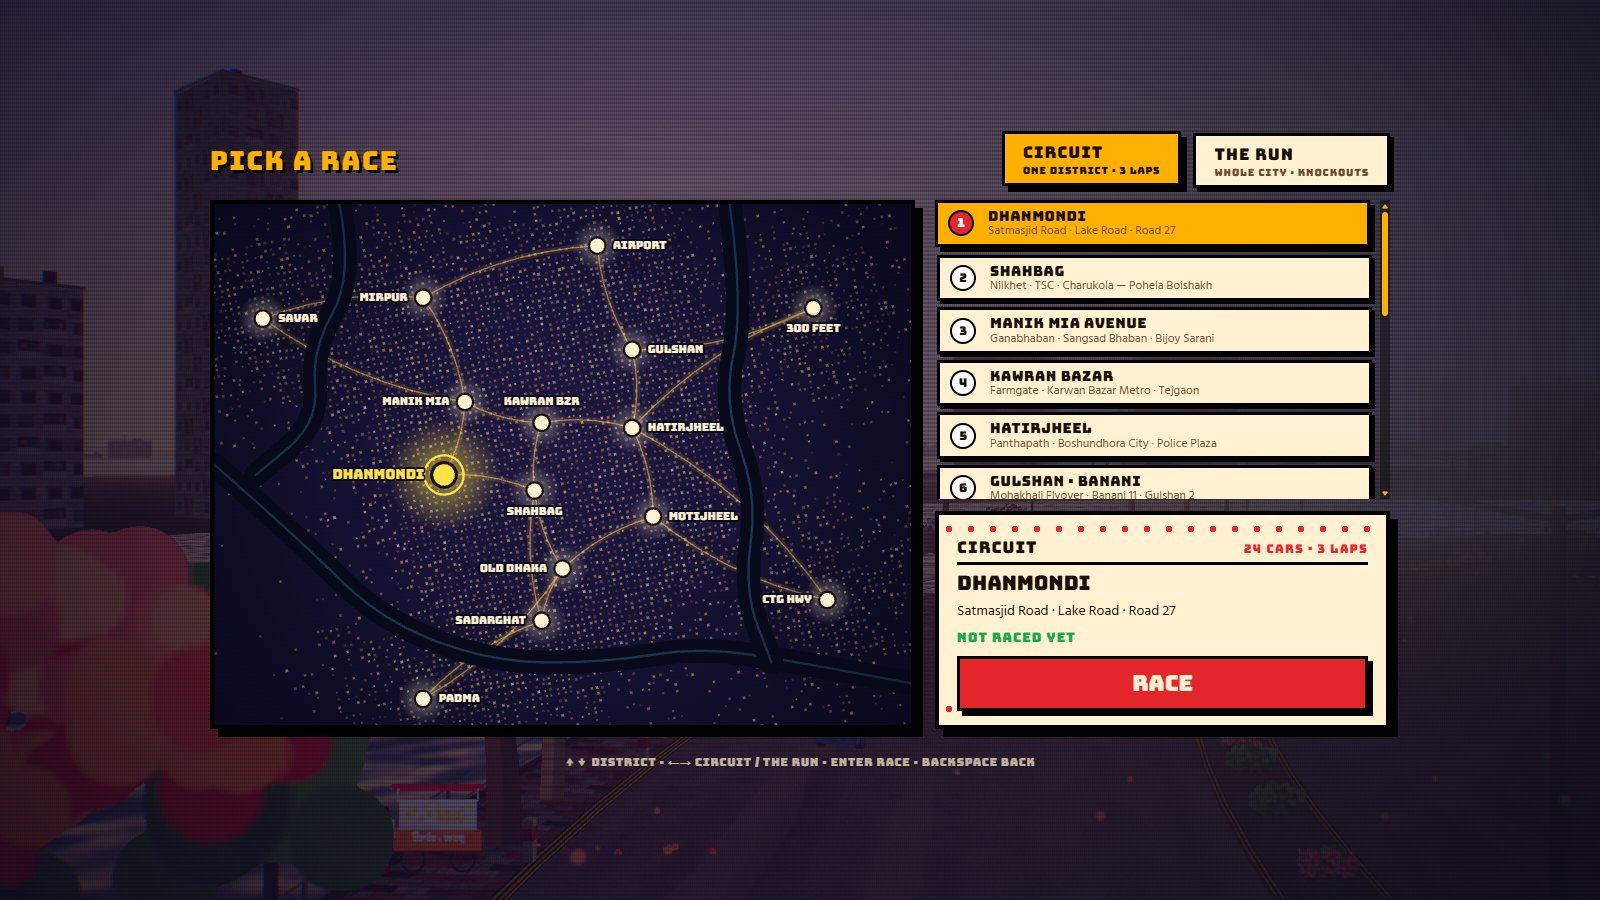
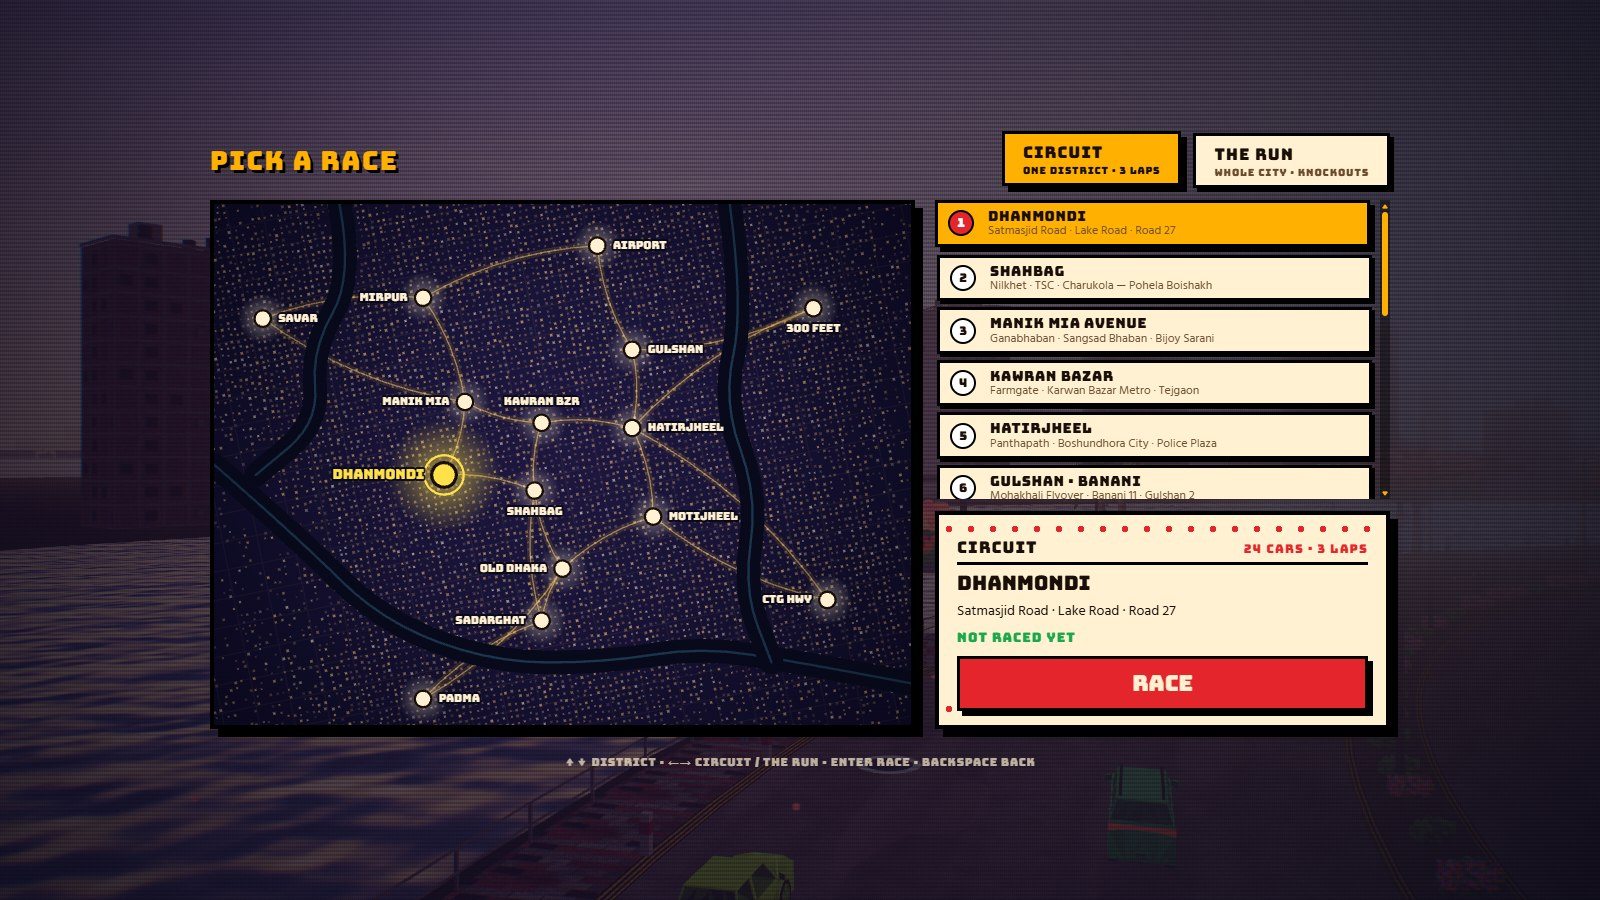
Fill the blank areas of the race-picker map; README back to a compact screenshot grid

diff --git a/src/ui/dhakamap.js b/src/ui/dhakamap.js
@@ -89,7 +89,7 @@ export function drawDhaka(cv, opts = {}) {
   {
     const r = rng(20240611);
     const step = small ? 4.5 : 7 * k;
-    const sig = W * 0.095;
+    const sig = W * 0.13;
     const cosA = Math.cos(-0.2), sinA = Math.sin(-0.2);
     c.save();
     c.translate(W / 2, H / 2);
@@ -101,7 +101,8 @@ export function drawDhaka(cv, opts = {}) {
         // where this lattice point lands on screen, for the density
         const dx = x - W / 2, dy = y - H / 2;
         const sx = W / 2 + dx * cosA - dy * sinA, sy = H / 2 + dx * sinA + dy * cosA;
-        let d = 0.035;
+        // a low base everywhere, rising and falling in broad patches so no part of the map is left empty, and the districts on top
+        let d = 0.2 + 0.13 * Math.sin(sx / W * 9 + 1.3) * Math.sin(sy / H * 7 + 0.4);
         for (const [px, py] of pins) { const ex = sx - px, ey = sy - py; d += Math.exp(-(ex * ex + ey * ey) / (2 * sig * sig)); }
         if (r() > d * 0.8) continue;
         const a = 0.15 + r() * 0.5;
@@ -111,6 +112,21 @@ export function drawDhaka(cv, opts = {}) {
         c.fillRect(x + r() * step * 0.4, y + r() * step * 0.4, s, s);
       }
     }
+    c.restore();
+  }
+
+  // a faint street grid over the whole city, so the quiet parts still read as streets
+  if (!small) {
+    c.save();
+    c.translate(W / 2, H / 2);
+    c.rotate(-0.2);
+    c.strokeStyle = 'rgba(255,200,120,0.06)';
+    c.lineWidth = Math.max(1, k);
+    const g = 38 * k;
+    c.beginPath();
+    for (let x = -W; x < W; x += g) { c.moveTo(x, -H); c.lineTo(x, H); }
+    for (let y = -H; y < H; y += g * 0.8) { c.moveTo(-W, y); c.lineTo(W, y); }
+    c.stroke();
     c.restore();
   }
 

diff --git a/README.md b/README.md
@@ -6,33 +6,11 @@ Runs in the browser. No install, no assets to download: the world, the music and
 
 ![Title screen: the showreel](docs/screenshots/title.jpg)
 
-![Shahbag at sunset, the road painted for Pohela Boishakh](docs/screenshots/shahbag.jpg)
-
-*Shahbag at sunset, the road painted for Pohela Boishakh*
-
-![Dhanmondi, with the Satmasjid Mosque in the glow](docs/screenshots/dhanmondi.jpg)
-
-*Dhanmondi, with the Satmasjid Mosque in the glow*
-
-![Old Dhaka at night: shopfronts, tangled wires, fireworks](docs/screenshots/old-dhaka.jpg)
-
-*Old Dhaka at night: shopfronts, tangled wires, fireworks*
-
-![Gulshan, along the lake](docs/screenshots/gulshan.jpg)
-
-*Gulshan, along the lake*
-
-![Motijheel in the monsoon](docs/screenshots/motijheel.jpg)
-
-*Motijheel in the monsoon*
-
-![The Padma Bridge toll plaza at dawn](docs/screenshots/padma.jpg)
-
-*The Padma Bridge toll plaza at dawn*
-
-![Pick any district, or run the whole city](docs/screenshots/map.jpg)
-
-*Pick any district, or run the whole city*
+| | |
+|---|---|
+| ![Shahbag at sunset](docs/screenshots/shahbag.jpg) | ![Dhanmondi](docs/screenshots/dhanmondi.jpg) |
+| ![Old Dhaka at night](docs/screenshots/old-dhaka.jpg) | ![Gulshan lakeside](docs/screenshots/gulshan.jpg) |
+| ![Motijheel in the monsoon](docs/screenshots/motijheel.jpg) | ![Race picker](docs/screenshots/map.jpg) |
 
 ## Play
 
